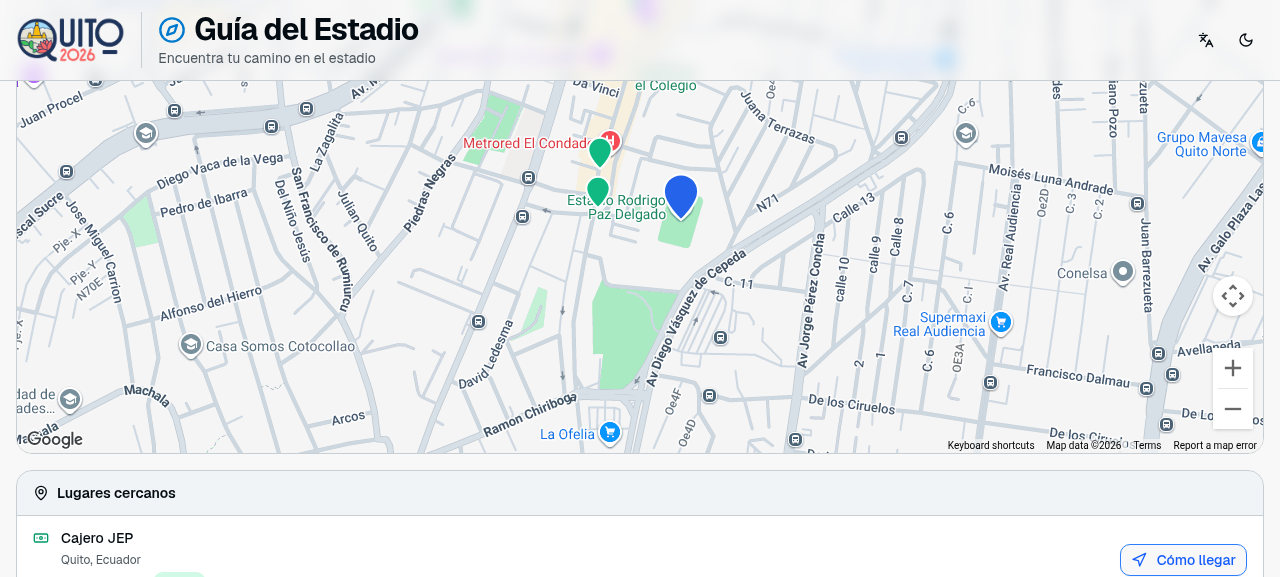
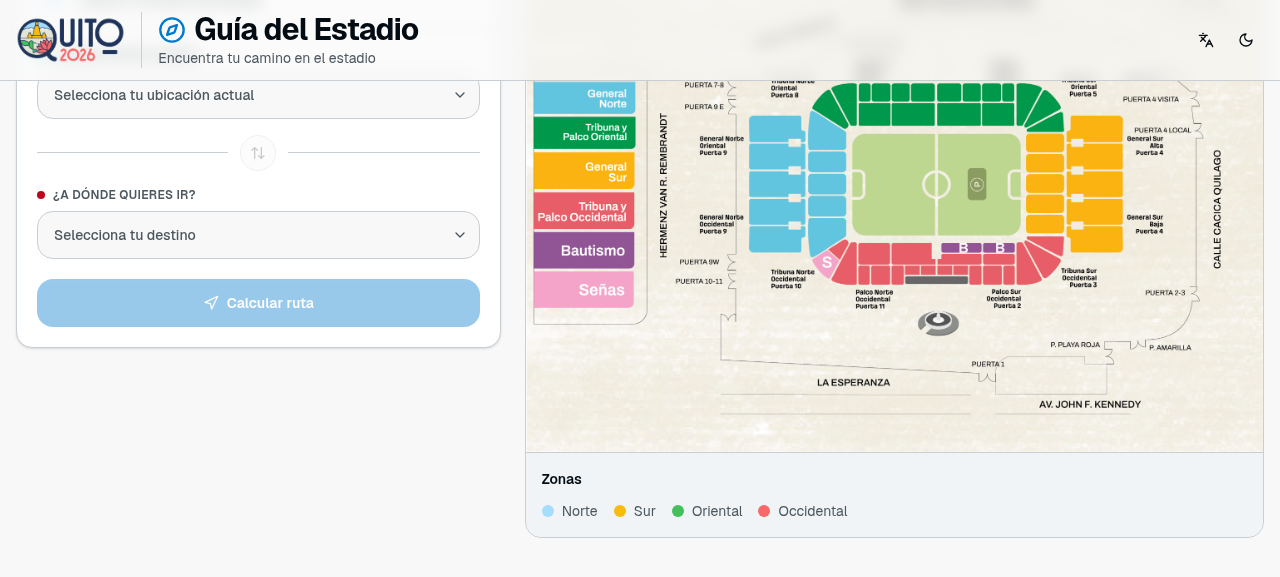
feat: standardize chip text color and update translation for "clear"

diff --git a/components/nearby-map.tsx b/components/nearby-map.tsx
@@ -40,11 +40,6 @@ function luminance(hex: string) {
   return (0.299 * r + 0.587 * g + 0.114 * b) / 255
 }
 
-// Texto legible sobre un fondo sólido del color dado (blanco o azul andino)
-function textOnFill(hex: string) {
-  return luminance(hex) > 0.6 ? "#1e345b" : "#ffffff"
-}
-
 // Mezcla un color con blanco o negro para asegurar contraste sobre la tarjeta
 function mix(hex: string, target: "#ffffff" | "#000000", ratio: number) {
   const c = hexToRgb(hex)
@@ -224,13 +219,15 @@ export function NearbyMap({ isDarkMode }: NearbyMapProps) {
     return active ? "" : "border-border hover:bg-muted text-foreground"
   }
 
-  // Estilo del chip activo con el color de marca de la categoría
+  // Estilo del chip activo con el color de marca de la categoría.
+  // El texto y el icono siempre van en blanco (como en Hospitales), sin
+  // importar el color de la categoría, para un estado activo uniforme.
   const chipStyle = (category: PlaceCategory): React.CSSProperties | undefined => {
     if (activeCategory !== category.id) return undefined
     return {
       backgroundColor: category.color,
       borderColor: category.color,
-      color: textOnFill(category.color),
+      color: "#ffffff",
     }
   }
 
@@ -354,8 +351,6 @@ export function NearbyMap({ isDarkMode }: NearbyMapProps) {
                         <h4 className="font-medium text-sm">{place.nombre}</h4>
                         <p className="text-xs text-muted-foreground">{place.address}</p>
                         <div className="flex items-center gap-2 text-xs flex-wrap">
-                          <span className="text-muted-foreground">Google Maps</span>
-                          <span className="text-muted-foreground">•</span>
                           {renderTag(place, selectedCategory.color)}
                         </div>
                       </div>

diff --git a/lib/translations.ts b/lib/translations.ts
@@ -19,7 +19,7 @@ export const translations = {
     selectDestination: "Selecciona tu destino",
     whereWantToGo: "¿A dónde quieres ir?",
     calculateRoute: "Calcular ruta",
-    clear: "Limpiar",
+    clear: "Borrar",
     yourRoute: "Tu ruta",
     sections: "Secciones",
     referencePoints: "Puntos de referencia",